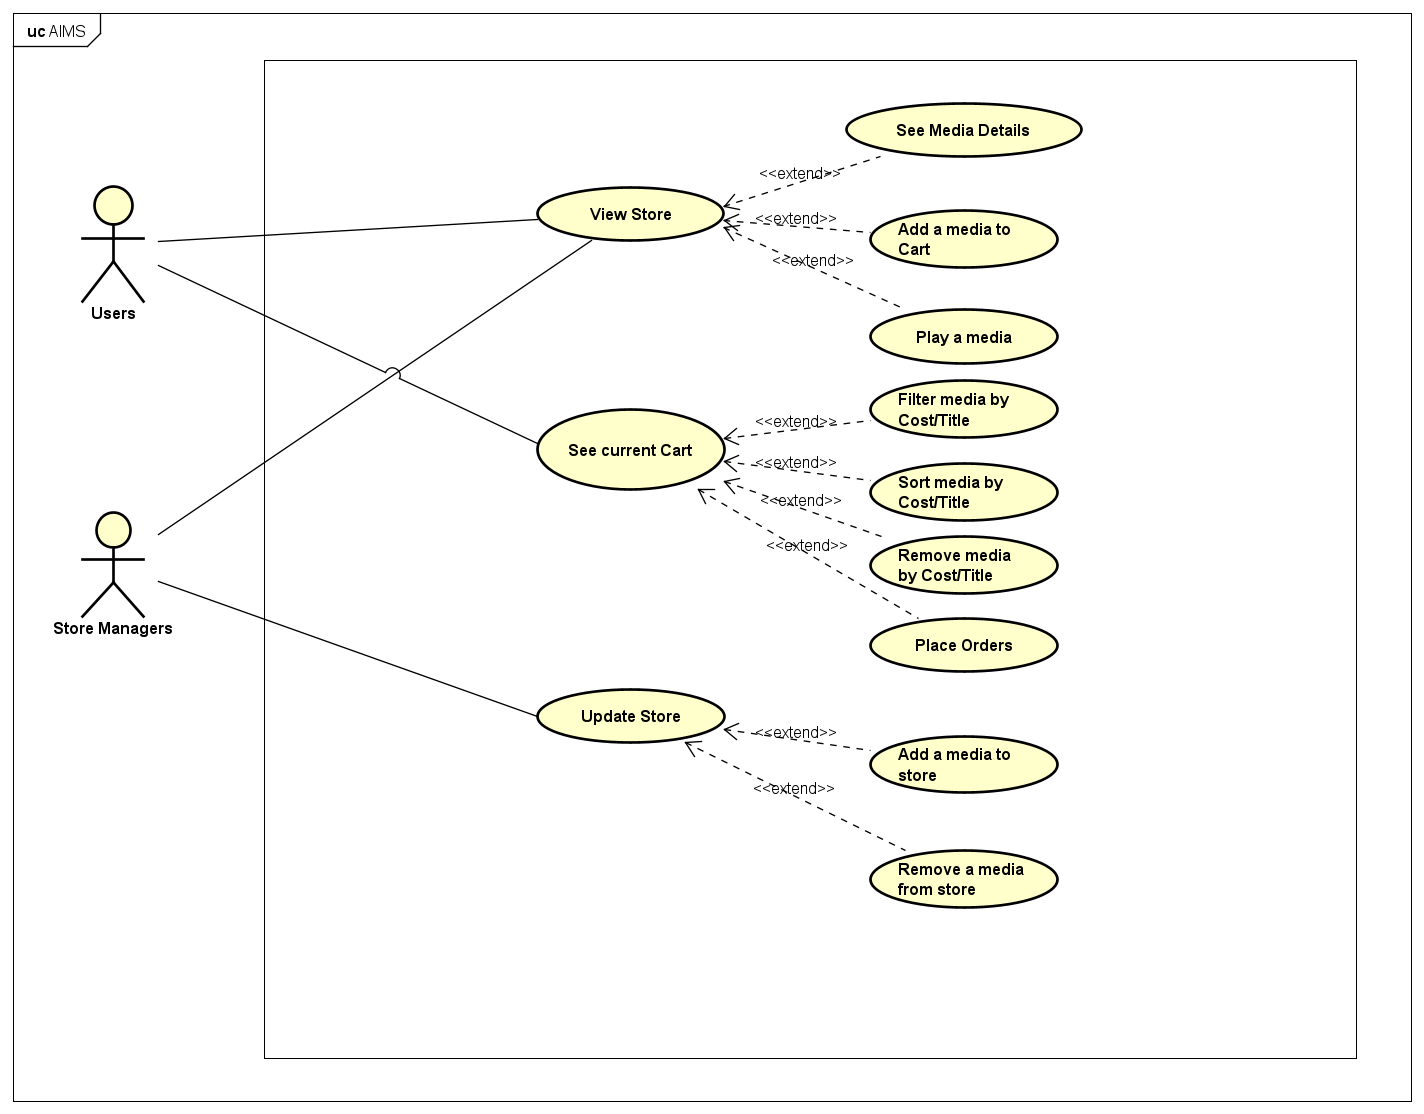
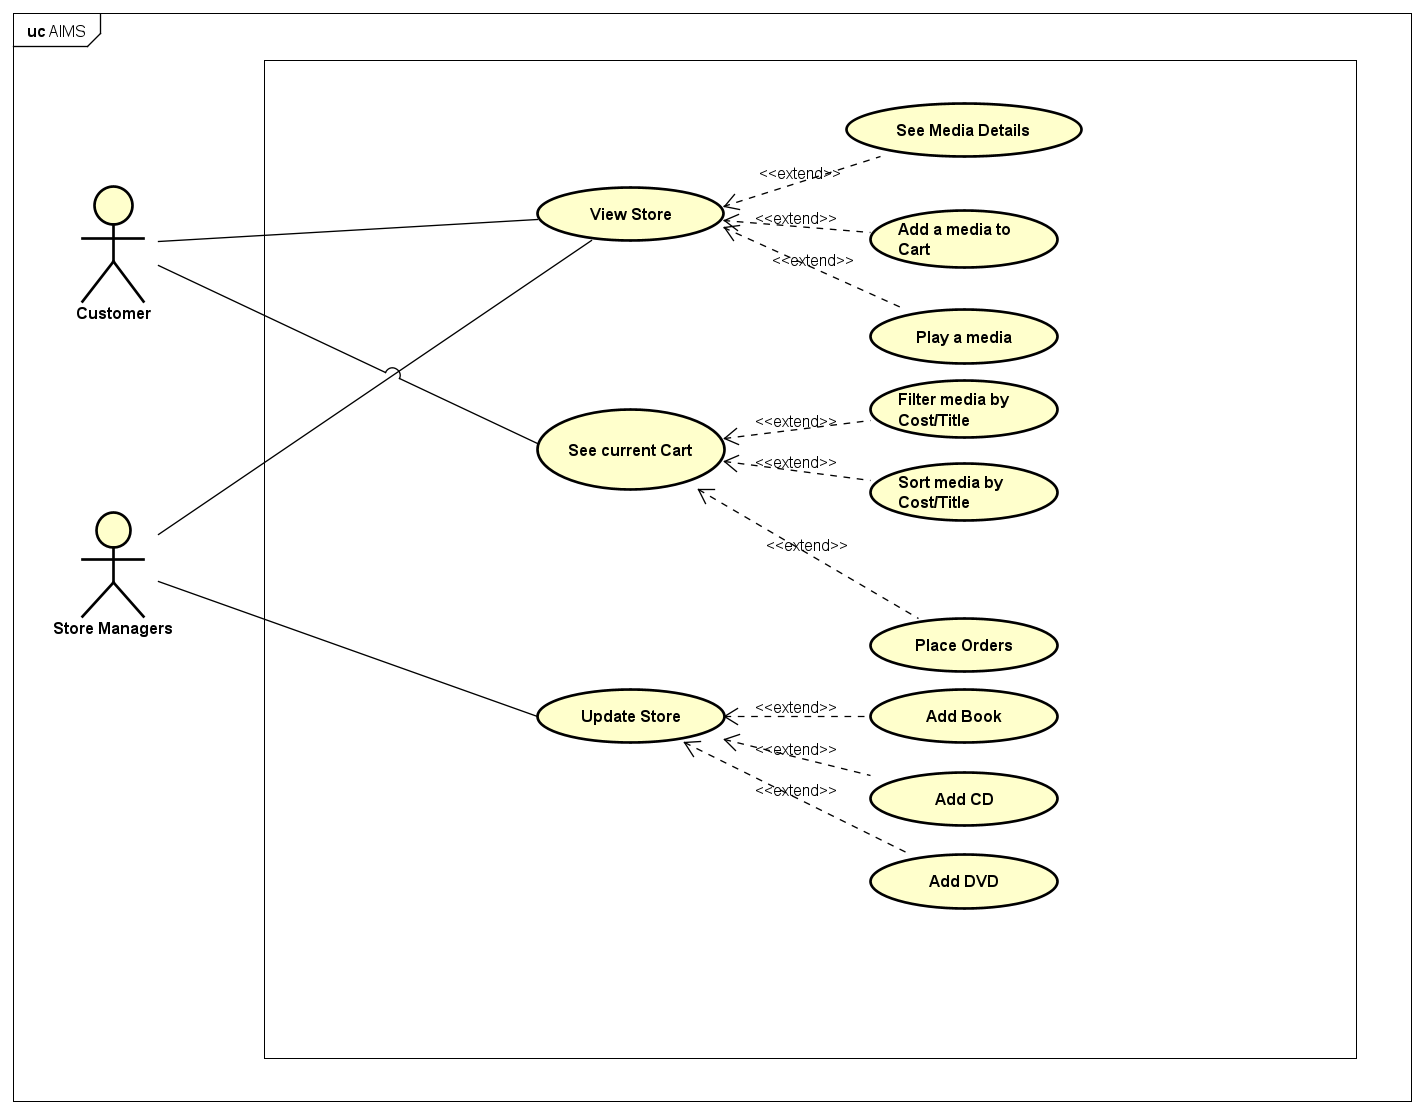
update: new classDiagram and ÃUseCaseDiagram

diff --git a/AimsProject/hust/soict/hedspi/aims/screen/manager/StoreManagerScreen.java b/AimsProject/hust/soict/hedspi/aims/screen/manager/StoreManagerScreen.java
@@ -10,7 +10,6 @@ import hust.soict.hedspi.aims.media.Media;
 
 public class StoreManagerScreen extends JFrame {
     private Store store;
-
     public StoreManagerScreen(Store store) {
         this.store = store;
 
@@ -27,7 +26,6 @@ public class StoreManagerScreen extends JFrame {
         setVisible(true);
     }
 
-    // Tạo cụm giao diện phía Bắc (Menu + Header)
     JPanel createNorth() {
         JPanel north = new JPanel();
         north.setLayout(new BoxLayout(north, BoxLayout.Y_AXIS));
@@ -36,19 +34,17 @@ public class StoreManagerScreen extends JFrame {
         return north;
     }
 
-    // Tạo thanh Menu Bar điều hướng hệ thống
     JMenuBar createMenuBar() {
         JMenu menu = new JMenu("Options");
 
         JMenuItem viewStoreMenu = new JMenuItem("View store");
         menu.add(viewStoreMenu);
 
-        // Sự kiện khi bấm "View Store" -> Vẽ lại màn hình chính
         viewStoreMenu.addActionListener(new ActionListener() {
             @Override
             public void actionPerformed(ActionEvent e) {
                 new StoreManagerScreen(store);
-                dispose(); // Đóng cửa sổ cũ
+                dispose();
             }
         });
 
@@ -62,7 +58,6 @@ public class StoreManagerScreen extends JFrame {
         smUpdateStore.add(addDVDMenu);
         menu.add(smUpdateStore);
 
-        // Thiết lập bộ lắng nghe chuyển màn hình cho các chức năng thêm mới vật phẩm
         addBookMenu.addActionListener(new AddItemListener("Book"));
         addCDMenu.addActionListener(new AddItemListener("CD"));
         addDVDMenu.addActionListener(new AddItemListener("DVD"));
@@ -72,8 +67,6 @@ public class StoreManagerScreen extends JFrame {
         menuBar.add(menu);
         return menuBar;
     }
-
-    // Tạo dải Header màu xanh Cyan chữ lớn thương hiệu
     JPanel createHeader() {
         JPanel header = new JPanel();
         header.setLayout(new BoxLayout(header, BoxLayout.X_AXIS));
@@ -88,14 +81,11 @@ public class StoreManagerScreen extends JFrame {
         header.add(Box.createRigidArea(new Dimension(10, 10)));
         return header;
     }
-
-    // Tạo lưới hiển thị danh sách Media ở Center
     JPanel createCenter() {
         JPanel center = new JPanel();
         center.setLayout(new GridLayout(3, 3, 2, 2));
 
         ArrayList<Media> mediaInStore = store.getItemsInStore();
-        // Hiển thị tối đa 9 item lên cấu trúc lưới 3x3
         int limit = Math.min(mediaInStore.size(), 9);
         for (int i = 0; i < limit; i++) {
             MediaStore cell = new MediaStore(mediaInStore.get(i));
@@ -103,8 +93,6 @@ public class StoreManagerScreen extends JFrame {
         }
         return center;
     }
-
-    // Inner Class điều hướng chuyển sang các màn hình nhập liệu tương ứng
     private class AddItemListener implements ActionListener {
         private String type;
         public AddItemListener(String type) { this.type = type; }
@@ -118,7 +106,7 @@ public class StoreManagerScreen extends JFrame {
             } else if (type.equals("DVD")) {
                 new AddDigitalVideoDiscToStoreScreen(store);
             }
-            dispose(); // Giải phóng màn hình hiển thị cũ nhằm tối ưu bộ nhớ
+            dispose();
         }
     }
 }
